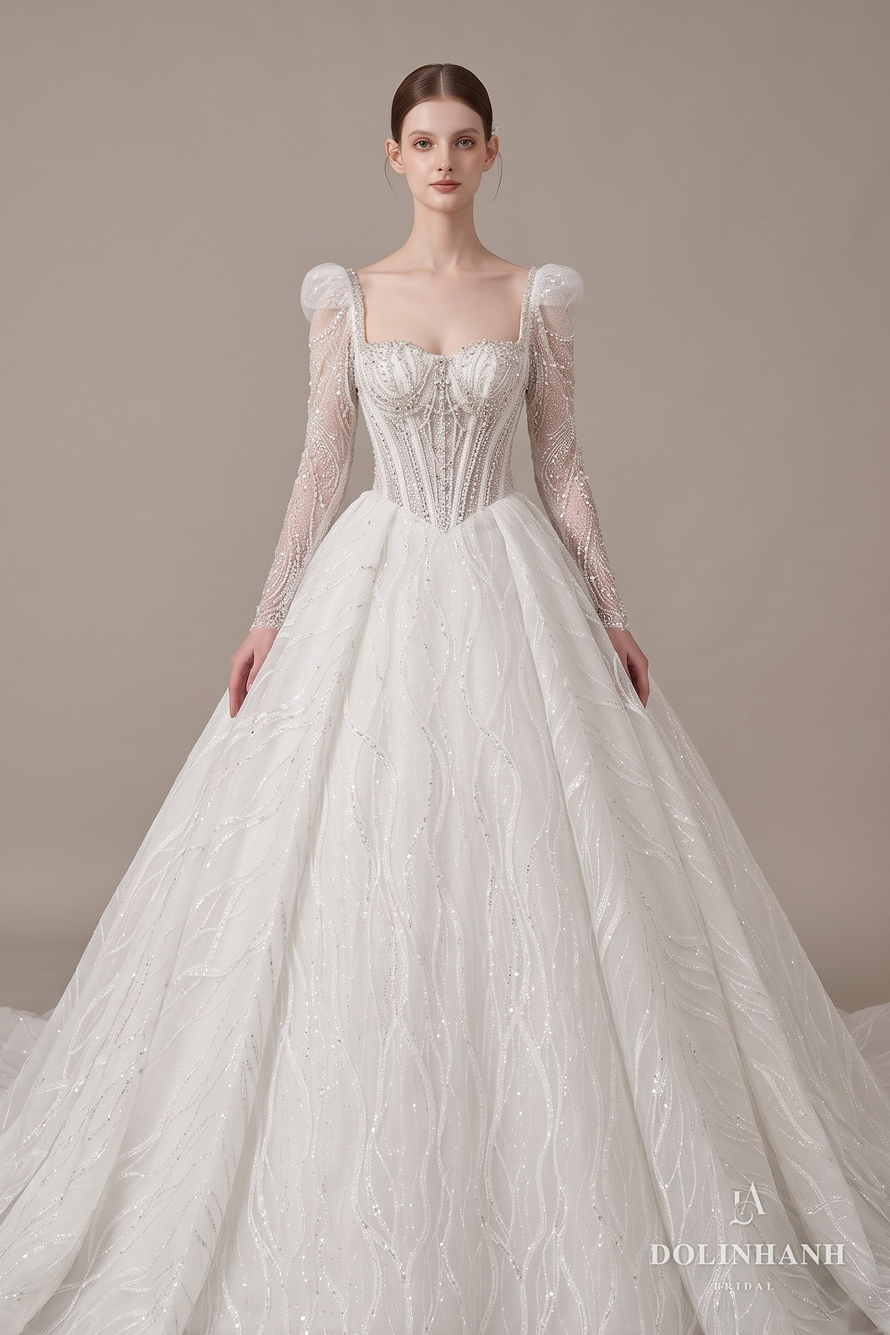
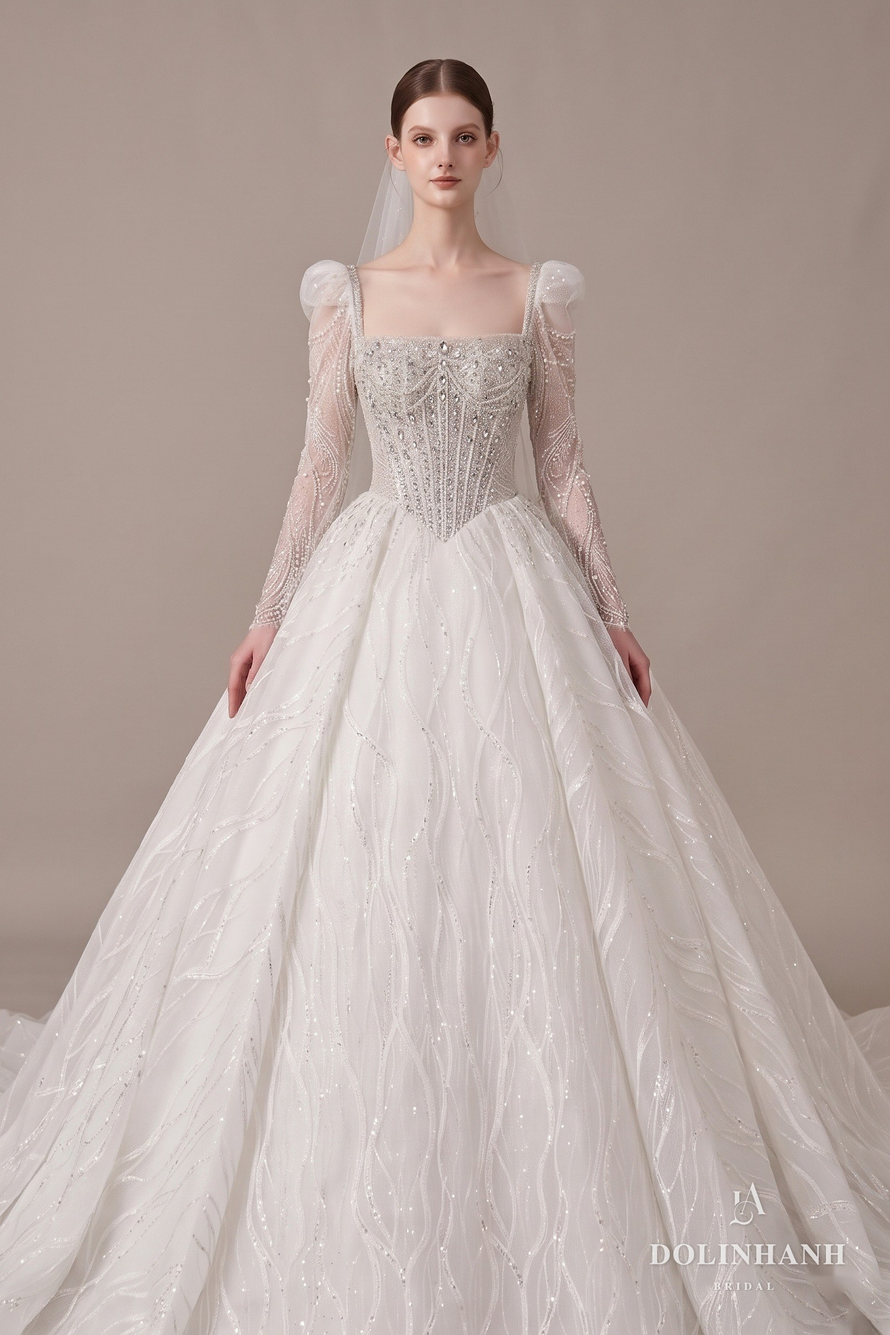
V173: sua anh MS 261: nguc ngang, than dinh da

diff --git a/bo-suu-tap.html b/bo-suu-tap.html
@@ -2107,7 +2107,7 @@ src="https://www.facebook.com/tr?id=1358640082651240&ev=PageView&noscript=1"
         </figure>
         <figure data-kin="1" data-dang="ballgown" data-mood="timeless" data-coso="hcm">
           <div class="sl-khung">
-            <div class="sl" data-img="anh/vay/ms261/01.jpg?v=6"></div>
+            <div class="sl" data-img="anh/vay/ms261/01.jpg?v=0511"></div>
           </div>
           <figcaption><span class="kind" data-en="Dolinhanh Bridal" data-zh="Dolinhanh Bridal">Dolinhanh Bridal</span><span class="nm">MS 261</span><span class="de" data-en="Beaded long sleeves ballgown" data-zh="钉珠长袖大蓬裙">Tay dài kết cườm, xoè bồng</span><span class="gia">US$1,880</span></figcaption>
         </figure>
